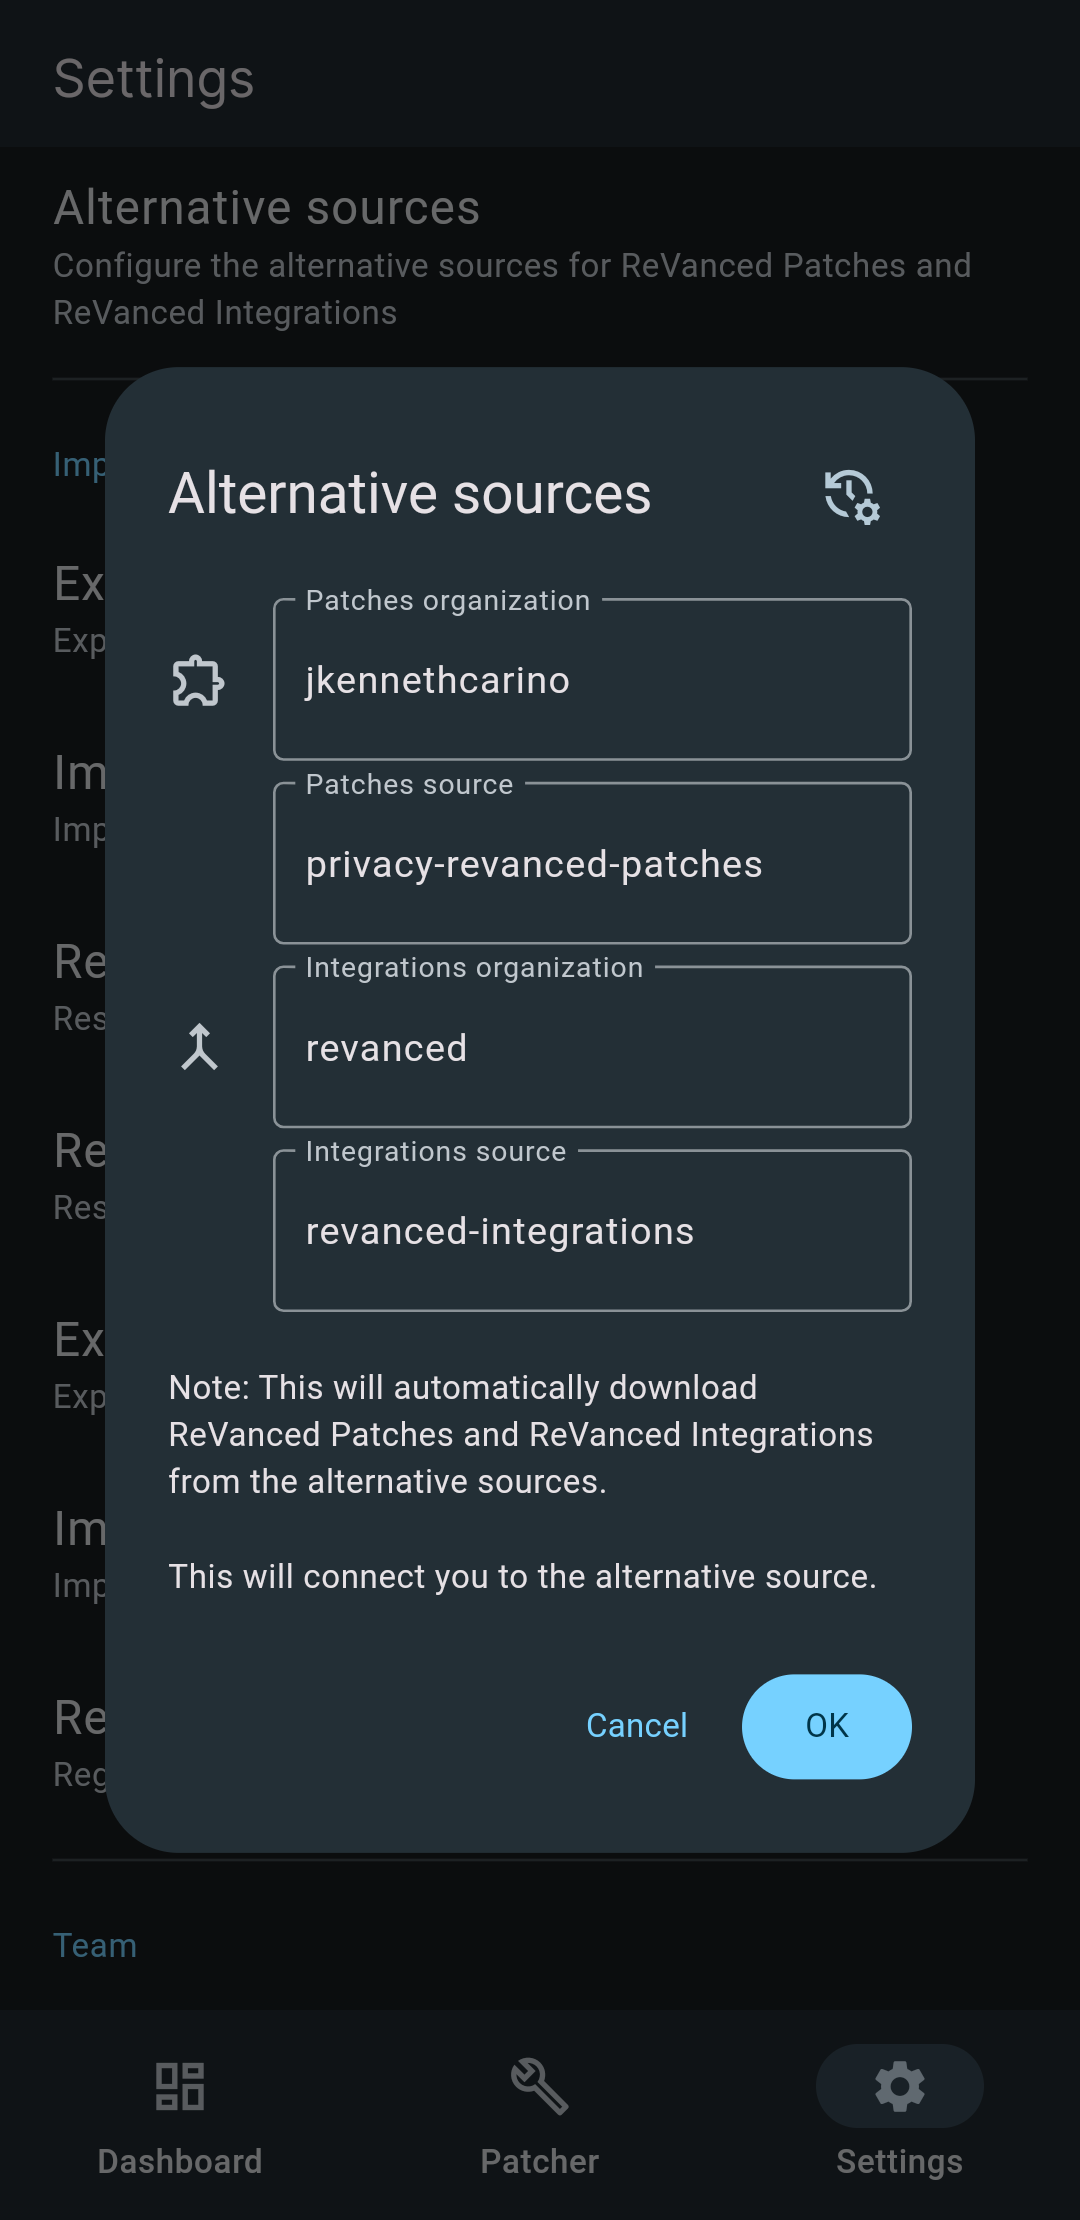
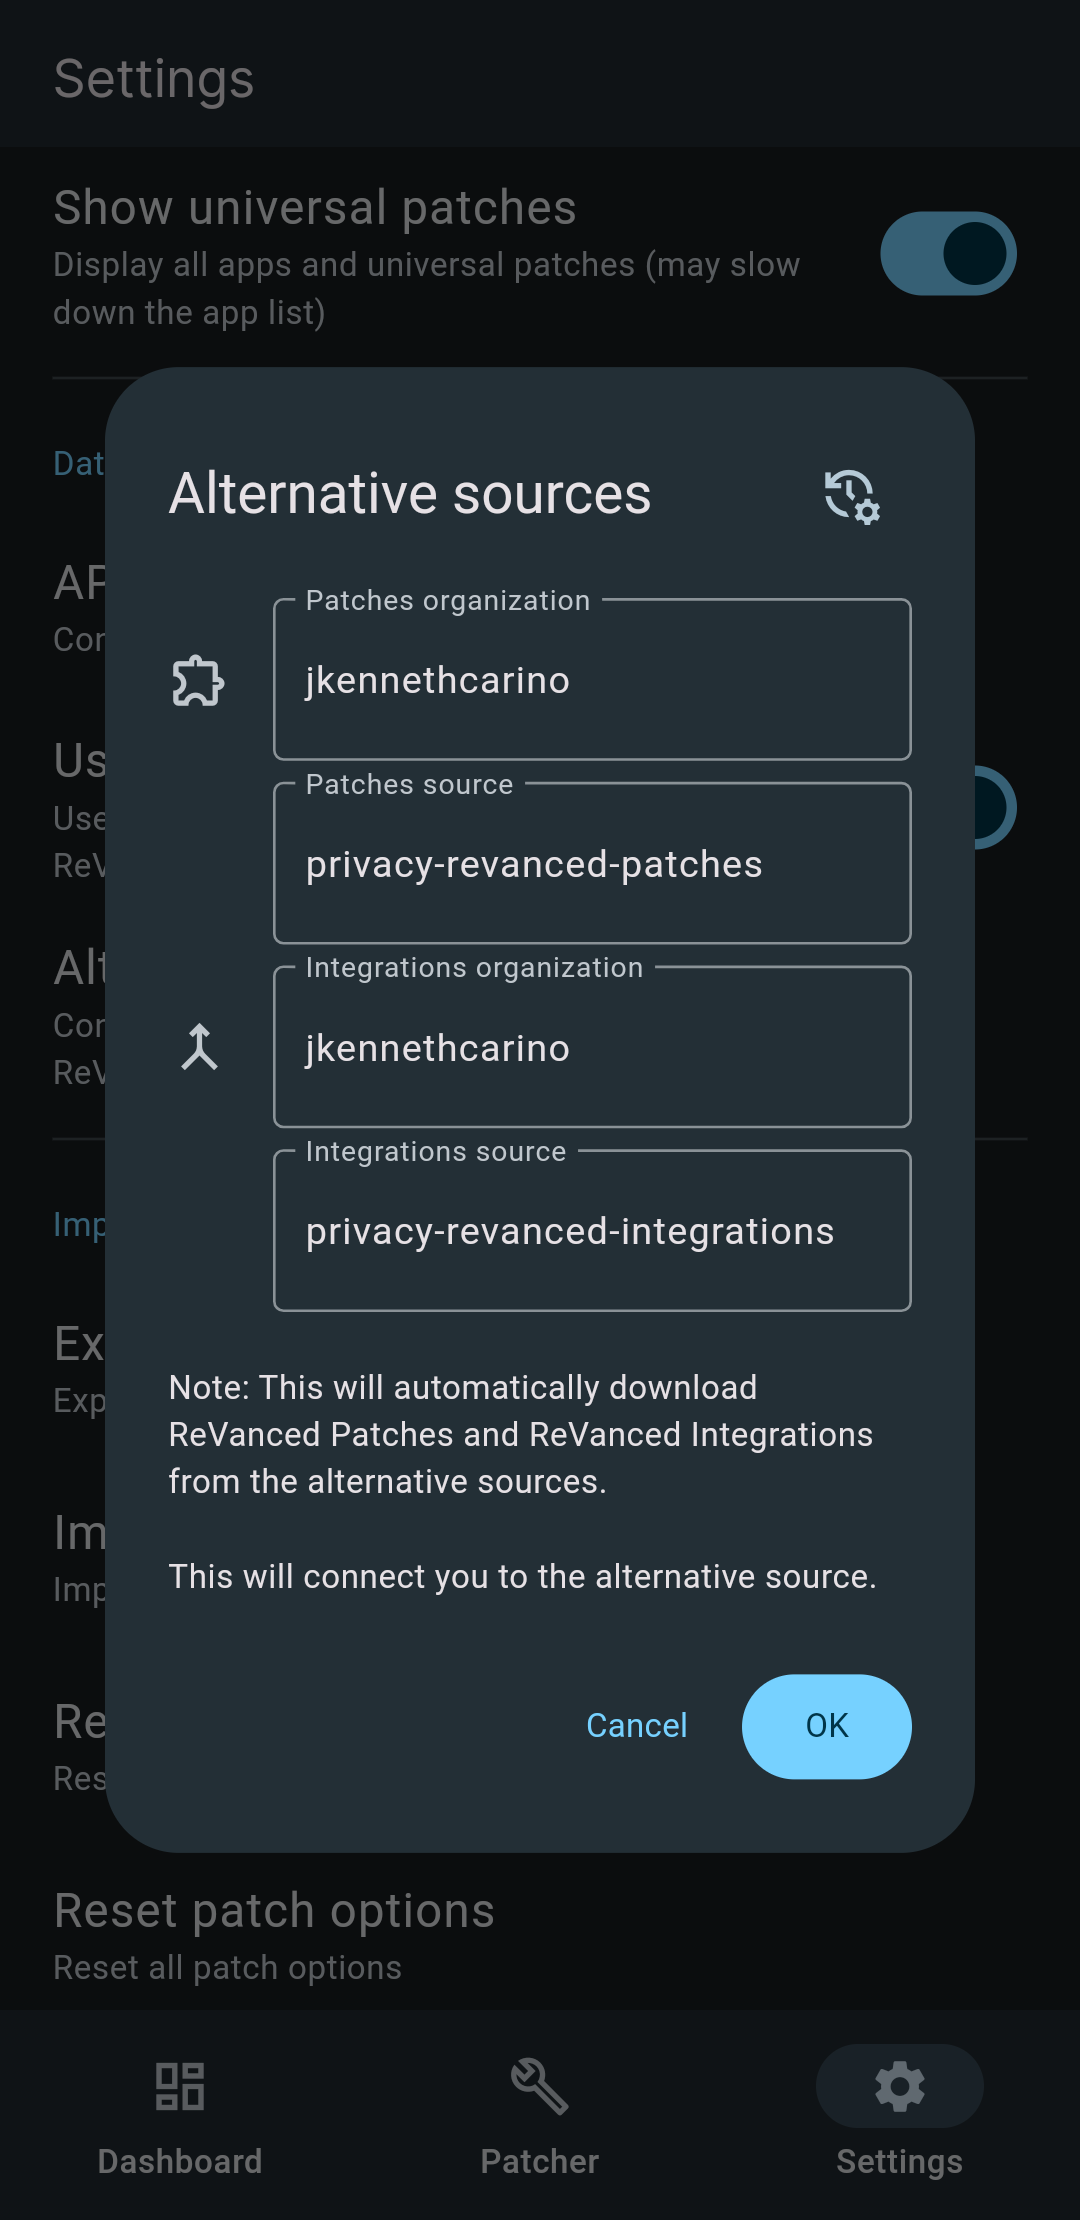
docs: Update features, screenshot, and include integrations

diff --git a/README.md b/README.md
@@ -1,4 +1,4 @@
-# 🥷 Privacy ReVanced Patches
+# Privacy ReVanced Patches
 
 ![GitHub Workflow Status (with event)](https://img.shields.io/github/actions/workflow/status/jkennethcarino/privacy-revanced-patches/release.yml)
 ![GPLv3 License](https://img.shields.io/badge/License-GPL%20v3-yellow.svg)
@@ -14,19 +14,28 @@ block analytics and trackers, and much more.
 
 Some of the features the patches provide are:
 
-* ⭐ **Block analytics and trackers**: Say goodbye to analytics and trackers
-* 🚫 **Remove internet permission**: Remove unnecessary internet permission
-* ✨ **And much more!**
+* **Remove internet permission**: Remove unnecessary internet permission from apps that can function without internet access.
+* **Disable Firebase Analytics**: Permanently disable the collection of Analytics data, all associated
+    broadcast receivers and services will also be removed.
+* **Disable WebView metrics collection**: Disable the collection of diagnostic data or usage statistics
+    that are uploaded to Google.
+* **Bypass Gboard signature verification**: Bypass the signature verification when the app starts up,
+    allowing you to easily remove internet access or change its package name.
+* **And much more!**
 
-## 🚀 How to get started
+## 🚀 Getting started
 
 You can use [ReVanced CLI](https://github.com/ReVanced/revanced-cli) or [ReVanced Manager](https://github.com/ReVanced/revanced-manager) to use Privacy ReVanced Patches.
 
 To use these patches with the ReVanced Manager, follow the steps below:
-1. Open the ReVanced Manager app.
-2. Select the Settings tab.
-3. In the Data sources section, click on Alternative sources.
-4. Set `jkennethcarino` as the Patches organization and `privacy-revanced-patches` as the Patches source.
+1. Open the **ReVanced Manager** app.
+2. Select the **Settings** tab.
+3. In the **Data sources** section, enable the **Use alternative sources** option and click on the **Alternative sources**.
+4. Set the following alternative sources:
+    - Patches organization: `jkennethcarino`
+    - Patches source: `privacy-revanced-patches`
+    - Integration organization: `jkennethcarino`
+    - Integration source: `privacy-revanced-integrations`
 
 <img src="/assets/rvm-alternative_sources.png" width="300px" />
 
